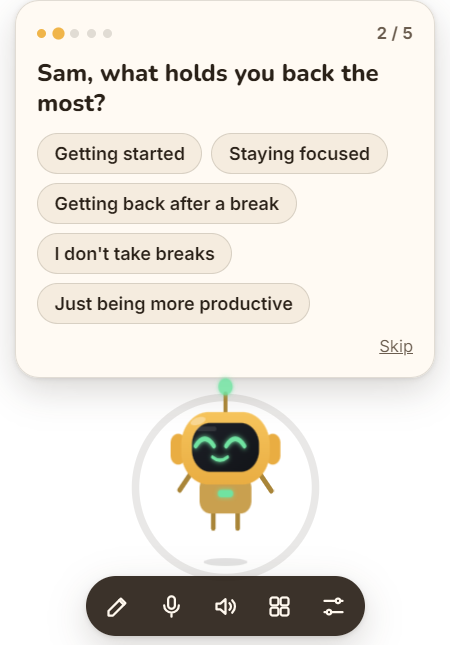
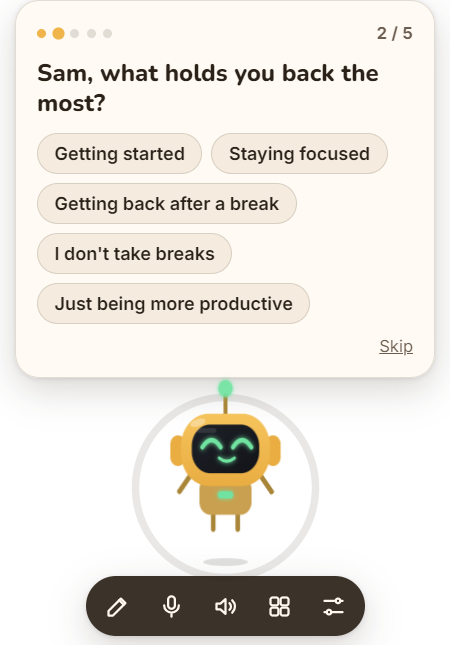
Cartes qui n'avalent plus les messages ; scenario de demo (docs/DEMO.md) joue automatiquement par npm run demo (11/11)

Changed region(s): [[0.3733, 0.6202, 0.6222, 0.8062], [0.4978, 0.5891, 0.5289, 0.6202], [0.4356, 0.7752, 0.4667, 0.8062]]

diff --git a/renderer.js b/renderer.js
@@ -91,7 +91,8 @@ async function handle(out) {
 
 async function ask(text) {
   if (!text.trim()) return;
-  if (pendingAnswer) { pendingAnswer(text.trim()); return; } // reponse parlee/ecrite a une question
+  if (pendingAnswer) { pendingAnswer(text.trim()); return; } // reponse parlee/ecrite a une question de l'onboarding
+  if (cardDismiss) cardDismiss(); // une autre carte (appli, pause…) laisse la place a la conversation
   if (mood === 'idle') setMood('focus');
   if (mood === 'idle') setMood('focus');
   setAct('thinking');
@@ -150,7 +151,7 @@ input.addEventListener('keydown', (e) => {
   if (e.key !== 'Enter') return;
   const t = input.value.trim(); input.value = ''; bar.classList.remove('typing');
   if (!t) return;
-  if (Realtime.open) { window.nox.remember('user', t); setAct('thinking'); Realtime.sendText(t); } else ask(t);
+  if (Realtime.open) { if (cardDismiss) cardDismiss(); window.nox.remember('user', t); setAct('thinking'); Realtime.sendText(t); } else ask(t);
 });
 
 // Evenement systeme : injecte dans la session vocale si elle est ouverte, sinon via le chat
@@ -195,7 +196,7 @@ Realtime.on = {
     rtAnalyser.fftSize = 512;
     actx.createMediaStreamSource(s).connect(rtAnalyser); // mesure seulement : l'element audio joue deja la voix
   },
-  listening() { lastVoiceAt = Date.now(); stopSpeaking(); if (mood === 'idle') setMood('focus'); setAct('listening'); },
+  listening() { if (cardDismiss) cardDismiss(); lastVoiceAt = Date.now(); stopSpeaking(); if (mood === 'idle') setMood('focus'); setAct('listening'); },
   thinking() { setAct('thinking'); },
   userText(t) { window.nox.remember('user', t); },
   caption(text) { say(text, currentStep); },
@@ -357,11 +358,13 @@ let lastMove = '';
 // ---------- Cartes de question (onboarding, permissions) ----------
 // Une question a la fois, grosses pastilles, toujours "Passer". Elle est aussi dite a voix haute,
 // et on peut repondre en parlant (clic sur la mascotte) ou en ecrivant.
-let card = null, pendingAnswer = null, methods = {}, currentMethod = null;
+let card = null, pendingAnswer = null, cardDismiss = null, methods = {}, currentMethod = null;
 // Une seule carte a la fois : les suivantes (mail, recompense) attendent leur tour
 let cardQueue = Promise.resolve();
 function showCardQueued(opts) { const p = cardQueue.then(() => showCard(opts)); cardQueue = p.catch(() => {}); return p; }
-function showCard({ text, options = [], input = false, secret = false, error = '', step = 0, total = 0, skip = T('card.skip') }) {
+// capture : la carte attend une reponse libre (onboarding). Sinon (appli, pause, mail, recompense),
+// elle s'efface des que l'utilisateur parle ou ecrit a Nox, et son message passe normalement.
+function showCard({ text, options = [], input = false, secret = false, error = '', step = 0, total = 0, skip = T('card.skip'), capture = false }) {
   return new Promise((resolve) => {
     card = true;
     clearTimeout(hideTimer);
@@ -376,7 +379,8 @@ function showCard({ text, options = [], input = false, secret = false, error = '
     }
     const q = document.createElement('p'); q.className = 'q'; q.textContent = text; bubble.append(q);
     if (error) { const er = document.createElement('p'); er.className = 'err'; er.textContent = error; bubble.append(er); }
-    const finish = (v) => { card = null; pendingAnswer = null; bubble.classList.remove('card'); resolve(v); };
+    const finish = (v) => { card = null; pendingAnswer = null; cardDismiss = null; bubble.classList.remove('card'); resolve(v); };
+    cardDismiss = capture ? null : () => finish(null);
     const pills = document.createElement('div'); pills.className = 'pills';
     for (const [value, label] of options) {
       const b = document.createElement('button'); b.className = 'pill'; b.textContent = label;
@@ -395,7 +399,7 @@ function showCard({ text, options = [], input = false, secret = false, error = '
     if (options.length) bubble.append(pills);
     if (skip) { const s = document.createElement('button'); s.className = 'skip'; s.textContent = skip; s.onclick = () => finish(null); bubble.append(s); }
     // Reponse parlee ou ecrite dans la barre : on la rapproche d'une pastille
-    pendingAnswer = (said) => {
+    if (capture) pendingAnswer = (said) => {
       const low = said.toLowerCase();
       const hit = options.find(([v, l]) => low.includes(String(l).toLowerCase().split(' ')[0]) || low.includes(String(v)));
       if (hit) finish(hit[0]); else if (input) finish(said.replace(/^(je m'appelle|moi c'est|c'est)\s*/i, '').replace(/[.!]$/, ''));
@@ -414,16 +418,16 @@ async function setLang(l) {
 async function runOnboarding(st) {
   setMood('happy');
   // 1) Langue : pre-reglee sur celle de Windows, l'utilisateur confirme ou change
-  const chosen = await showCard({ text: T('card.lang'), options: [['fr', 'Français'], ['en', 'English']], skip: null });
+  const chosen = await showCard({ text: T('card.lang'), options: [['fr', 'Français'], ['en', 'English']], skip: null, capture: true });
   await window.nox.setSettings({ lang: chosen });
   await setLang(chosen);
   const { onboarding } = await window.nox.getCatalog();
-  await showCard({ text: T('ob.hello', { name: st.name, n: onboarding.length }), options: [['go', T('ob.go')]], skip: null });
+  await showCard({ text: T('ob.hello', { name: st.name, n: onboarding.length }), options: [['go', T('ob.go')]], skip: null, capture: true });
   // 2) Cle OpenAI de l'utilisateur (chiffree sur son PC), ou mode demo sans cle
   if (!st.hasKey && !st.testMode && !st.demoMode) {
     let error = '';
     for (;;) {
-      const v = await showCard({ text: T('ob.key'), input: true, secret: true, error, options: [['demo', T('ob.demo')]], skip: null });
+      const v = await showCard({ text: T('ob.key'), input: true, secret: true, error, options: [['demo', T('ob.demo')]], skip: null, capture: true });
       if (v === 'demo' || v === null) { await window.nox.setDemo(true); break; }
       const r = await window.nox.setApiKey(v);
       if (r.ok) break;
@@ -436,7 +440,7 @@ async function runOnboarding(st) {
     const q = onboarding[i];
     const text = q.key === 'blocker' && answers.name ? T('ob.blockerNamed', { name: answers.name }) : q.ask;
     flash('jump', 450);
-    const v = await showCard({ text, options: q.options || [], input: q.input, step: i + 1, total: onboarding.length });
+    const v = await showCard({ text, options: q.options || [], input: q.input, step: i + 1, total: onboarding.length, capture: true });
     if (v !== null) answers[q.key] = v;
   }
   await window.nox.saveProfile(answers);

diff --git a/tools/demo-run.js b/tools/demo-run.js
@@ -1,0 +1,86 @@
+// Joue le scenario de docs/DEMO.md tout seul, en anglais, avec le cerveau de demo (sans cle,
+// sans ouvrir Word ni YouTube), et verifie chacun des 7 moments (preuve que le parcours marche).
+// Usage : node tools/demo-run.js
+const { _electron: electron } = require('playwright-core');
+const fs = require('fs');
+const os = require('os');
+const path = require('path');
+
+const ROOT = path.join(__dirname, '..');
+
+const steps = [];
+function step(name, ok) { steps.push({ name, ok }); console.log(`${ok ? 'OK ' : 'RATE'}  ${name}`); }
+const pause = (ms) => new Promise((r) => setTimeout(r, ms));
+
+(async () => {
+
+  const data = fs.mkdtempSync(path.join(os.tmpdir(), 'nox-demo-run-'));
+  fs.writeFileSync(path.join(data, 'nox-state.json'), JSON.stringify({
+    lang: 'en', method: 'pomodoro', watchWindows: true, watchAsked: true,
+    profile: { name: 'Adebayo', blocker: 'start', energy: 'morning', focusMin: 15, tone: 'douce', onboardedAt: Date.now() }
+  }));
+  const app = await electron.launch({
+    args: ['--force-device-scale-factor=2', '.'], cwd: ROOT,
+    env: { ...process.env, NOX_FAKE_AI: '1', NOX_USER_DATA: data, NOX_NO_WATCHER: '1', REALTIME: 'off', DRIFT_SECONDS: '4', IDLE_SECONDS: '100000' }
+  });
+  const nox = await app.firstWindow();
+  const bubble = () => nox.locator('#bubble').innerText();
+  const waitBubble = (re, ms = 8000) => nox.waitForFunction((src) => new RegExp(src, 'i').test(document.getElementById('bubble').innerText), re.source, { timeout: ms }).then(() => true, () => false);
+  const tell = async (text) => { await nox.click('#write'); await pause(300); await nox.type('#input', text, { delay: 35 }); await pause(300); await nox.press('#input', 'Enter'); };
+
+  // 1. Lancement : atterrissage + salutation
+  step('1. Nox greets you by name', await waitBubble(/Hi Adebayo/, 10000));
+  await pause(1500);
+
+  // 2. Annoncer la tache : micro-etapes, minuteur, proposition de Word
+  await tell('I need to write my internship report');
+  step('2. Task broken down, first step shown', await waitBubble(/Open the document/));
+  step('2. Word is suggested', await nox.waitForSelector('#bubble.card >> text=This happens in Word', { timeout: 6000 }).then(() => true, () => false));
+  await pause(1500);
+  await nox.click('#bubble .pill:has-text("No need")'); // (en direct : "Open it")
+
+  // 3. Minuteur de 25 min a la voix
+  await tell('Start a 25 minute timer');
+  step('3. 25-minute timer running', await nox.waitForFunction(() => document.getElementById('timerLabel').innerText.startsWith('2'), null, { timeout: 5000 }).then(() => true, () => false));
+  await pause(1500);
+
+  // 4. Decrochage sur YouTube (titre de fenetre simule)
+  await nox.evaluate(() => window.nox.testWindow('Funny cats compilation - YouTube - Google Chrome'));
+  step('4. Nox brings you back from YouTube', await waitBubble(/YouTube can wait/, 15000));
+  await nox.evaluate(() => window.nox.testWindow('Internship report - Word'));
+  await pause(2000);
+
+  // 5. Etape faite : felicitations, etape suivante, competence debloquee
+  await tell('Done!');
+  step('5. Next step after "Done"', await waitBubble(/Nice/));
+  step('5. Skill unlocked', await nox.waitForSelector('#bubble.card >> text=Skill unlocked', { timeout: 9000 }).then(() => true, () => false));
+  await pause(2000);
+  await nox.click('#bubble .pill:has-text("Awesome")');
+
+  // 6. Note express puis compliment
+  await tell('Note that I need to email my tutor');
+  step('6. Note saved', await waitBubble(/noted/));
+  await pause(1200);
+  await tell("You're so cute");
+  step('6. Nox blushes', await nox.waitForFunction(() => document.getElementById('app').classList.contains('shy'), null, { timeout: 5000 }).then(() => true, () => false));
+  await pause(2500);
+
+  // 7. Tableau de bord, puis arreter le minuteur a la voix
+  const [dash] = await Promise.all([app.waitForEvent('window'), nox.click('#dashboard')]);
+  await dash.waitForSelector('#stepNow');
+  step('7. Dashboard shows the step, the note and the progress',
+    (await dash.locator('#notes').innerText()).includes('email my tutor') && (await dash.locator('#lvGrade').innerText()).length > 0);
+  await pause(2500);
+  await dash.evaluate(() => document.getElementById('notes').scrollIntoView({ behavior: 'smooth' }));
+  await pause(2000);
+  await tell('Stop the timer');
+  step('7. Timer stopped by voice', await nox.waitForFunction(() => document.getElementById('timerLabel').style.display === 'none', null, { timeout: 5000 }).then(() => true, () => false));
+  await pause(1500);
+  void bubble;
+
+  await app.close();
+  fs.rmSync(data, { recursive: true, force: true });
+  const failed = steps.filter((s) => !s.ok).length;
+  console.log(`\n${steps.length - failed}/${steps.length} moments reussis.`);
+  process.exit(failed ? 1 : 0);
+})().catch((e) => { console.error('ECHEC', e.message.split('\n')[0]); process.exit(1); });

diff --git a/main.js b/main.js
@@ -244,7 +244,7 @@ Facon de parler :
 - Ton humeur (mood) colore ta voix et tes mots : shy = timide, un peu gene ; love = touche, tres chaleureux ; happy = enjoue ; worried = doux, rassurant ; proud = fier de lui ; tired = calme, lent, compatissant ; focus = clair et pose. Une emotion est passagere : des que la conversation passe a autre chose, reviens a focus ou happy.
 - Emotions a montrer : compliment ("t'es mignon", "cute") -> shy, remercie timidement ; affection ou gros merci -> love ; il est fatigue -> tired, compatis et propose une pause ; une blague -> happy.
 - Fermete : ${state.firmness}. Mode : ${state.mode}.
-Ce que tu sais faire (dis-le precisement si on te le demande, sans inventer) :
+Ce que tu sais faire (si on te le demande : resume en 2 phrases max, les 3 ou 4 choses les plus utiles pour lui, sans inventer) :
 - decouper une tache en micro-etapes de 2 a 10 min et suivre l'avancement ;
 - lancer, arreter ou relancer le minuteur (duree par defaut : ${memory.timerMinutes(state)} min) ;
 - ouvrir une appli (word, excel, powerpoint, vscode, notepad, explorateur) ou un site qu'il cite ;
@@ -592,7 +592,7 @@ async function telegramLoop() {
 // ---------- Surveillance douce (avec permission) ----------
 // Le processus ne tourne que si l'utilisateur a donne son accord
 function syncWindowWatcher() {
-  if (state.watchWindows && !watcher) startWindowWatcher();
+  if (state.watchWindows && !watcher && !process.env.NOX_NO_WATCHER) startWindowWatcher();
   if (!state.watchWindows && watcher) { watcher.kill(); watcher = null; currentTitle = ''; }
 }
 
@@ -784,6 +784,8 @@ ipcMain.handle('nox:newTask', async (_e, text) => {
 ipcMain.on('nox:startTimer', (_e, min) => send('nox:startTimer', Number(min) || memory.timerMinutes(state)));
 ipcMain.on('nox:openDashboard', () => openDashboard());
 ipcMain.on('nox:hide', () => toggleNox(false));
+// Mode test uniquement : simuler le titre de la fenetre active (demo automatique du decrochage)
+if (FAKE_AI) ipcMain.on('nox:test:window', (_e, title) => { currentTitle = String(title || ''); });
 ipcMain.handle('nox:openApp', (_e, id) => apps.openApp(id, shell));
 ipcMain.on('nox:show', () => toggleNox(true));
 // Salutation au lancement : Nox parle en premier

diff --git a/fake-ai.js b/fake-ai.js
@@ -25,6 +25,7 @@ const R = {
     window: (w) => `Tu es sur « ${w} ». C'est bien là que tu voulais être ?`,
     can: "Je découpe tes tâches en petites étapes, je lance ou j'arrête un minuteur, j'ouvre la bonne appli, je prends tes notes et je te ramène quand tu décroches. Je ne lis pas encore le contenu de tes pages.",
     timerStopped: 'Minuteur arrêté. On reprend quand tu veux.',
+    drift: 'Hé, YouTube peut attendre ta pause 😉 On revient sur ton étape ?',
     timerStarted: (m) => `C'est parti pour ${m} minutes ⏱`,
     chat: ["Je t'écoute 🙂 Tu bosses sur quoi en ce moment ?", "Ah, raconte ! Et côté travail, ça avance ?", "Je suis là. Si tu as une tâche qui traîne, dis-la moi, on la découpe ensemble."]
   },
@@ -52,6 +53,7 @@ const R = {
     window: (w) => `You're on "${w}". Is that where you meant to be?`,
     can: "I break your tasks into tiny steps, start or stop a timer, open the right app, take your notes and bring you back when you drift. I can't read the content of your pages yet.",
     timerStopped: 'Timer stopped. We can pick up whenever you like.',
+    drift: "Hey, YouTube can wait for your break 😉 Shall we get back to your step?",
     timerStarted: (m) => `${m} minutes, here we go ⏱`,
     chat: ["I'm listening 🙂 What are you working on right now?", 'Oh, tell me more! And how is work going?', "I'm here. Got a task that keeps slipping? Tell me and we'll break it down together."]
   }
@@ -70,6 +72,7 @@ function fakeThink(state, text, ctx = {}) {
     if (t.includes('minuteur')) return { reply: r.timer, mood: 'proud' };
     if (t.includes('revient')) return { reply: r.back(name, step), mood: 'happy' };
     if (t.includes('nouvelles')) return { reply: r.checkIn, mood: 'focus' };
+    if (t.includes('ramene-le')) return { reply: r.drift, mood: 'worried' };
     if (t.includes('agenda')) { const ev = text.match(/"([^"]+)"/); return { reply: r.agenda(ev && ev[1]), mood: 'worried' }; }
     if (t.includes('derniere etape')) return { reply: r.taskDone, mood: 'proud' };
     if (t.includes('coche une etape')) return { reply: r.stepDone(step), mood: 'proud' };

diff --git a/memory.js b/memory.js
@@ -9,7 +9,7 @@ const METHODS = {
     prompt: "Methode regle des 5 minutes : propose toujours un minuteur de 5 min ; a la fin, demande s'il veut continuer, sans pression." },
   pomodoro: { name: 'Pomodoro', emoji: '🍅', focusMin: 25, breakMin: 5, checkInMin: 0,
     short: '25 min de focus, 5 min de pause. On répète.',
-    prompt: 'Methode Pomodoro : minuteur de focus a la duree preferee, puis propose une vraie pause de 5 min.' },
+    prompt: 'Methode Pomodoro : seances de 25 min de focus, puis une vraie pause de 5 min.' },
   body_doubling: { name: 'Body doubling', emoji: '👥', focusMin: 25, breakMin: 5, checkInMin: 10,
     short: 'Je reste avec toi et je prends des nouvelles.',
     prompt: 'Methode body doubling : tu travailles "a cote" de lui ; prends des nouvelles regulierement, tres brievement, sans juger.' },
@@ -182,7 +182,7 @@ function summary(state) {
   if (p.name) lines.push(`Prenom : ${p.name}.`);
   if (p.blocker) lines.push(`Il ${LABELS.blocker[p.blocker] || p.blocker}.`);
   if (p.energy) lines.push(`Energie : ${LABELS.energy[p.energy] || p.energy}.`);
-  if (p.focusMin) lines.push(`Concentration confortable : ${p.focusMin} min (duree par defaut du minuteur).`);
+  if (p.focusMin) lines.push(`Concentration confortable : ${p.focusMin} min.`);
   if (m) lines.push(`Methode choisie : ${m.name}. ${m.prompt}`);
   if (state.facts.length) lines.push(`Ce que tu sais de lui : ${state.facts.slice(-12).map((f) => f.text).join(' ; ')}.`);
   if (state.notes.length) lines.push(`Ses notes (les plus recentes, a relire s'il le demande) : ${state.notes.slice(-8).map((n) => `"${n.text}"`).join(' ; ')}.`);

diff --git a/preload.js b/preload.js
@@ -20,6 +20,7 @@ contextBridge.exposeInMainWorld('nox', {
   startTimer: (min) => ipcRenderer.send('nox:startTimer', min),
   openDashboard: () => ipcRenderer.send('nox:openDashboard'),
   hide: () => ipcRenderer.send('nox:hide'),
+  testWindow: (title) => ipcRenderer.send('nox:test:window', title), // sans effet hors mode test
   openApp: (id) => ipcRenderer.invoke('nox:openApp', id),
   onSuggestApp: (cb) => ipcRenderer.on('nox:suggestApp', (_e, a) => cb(a)),
   show: () => ipcRenderer.send('nox:show'),

diff --git a/docs/DEMO.md b/docs/DEMO.md
@@ -1,0 +1,28 @@
+# Scénario de démo — 90 secondes, 7 moments
+
+Un seul scénario, toujours le même, pour montrer que Nox fait exactement ce qu'on attend de lui.
+Les phrases à dire sont en anglais (vidéo pour le jury) ; la version française est entre parenthèses.
+
+**Avant de commencer**
+- Nox installé, clé OpenAI enregistrée (ou mode démo), langue **English**, méthode **Pomodoro**.
+- Réglages → « See the active app / tab » **coché** (pour le moment 4).
+- Word installé (sinon Nox ouvrira Word en ligne : c'est prévu).
+- Écran propre : seulement le bureau, Chrome fermé.
+
+| # | Tu fais / tu dis | Nox doit… | Ce qu'on voit |
+|---|---|---|---|
+| 1 | Tu lances Nox | atterrir en bas à droite et te saluer par ton prénom | animation d'atterrissage, bulle « Hi Adebayo! What are you working on? » |
+| 2 | *« I need to write my internship report »* (« Je dois rédiger mon rapport de stage ») | découper en micro-étapes, n'afficher que la première, proposer le minuteur, puis proposer Word | bulle avec « → première étape », carte « This happens in Word. Want me to open it? » |
+| 3 | Clic **Open it** (« Ouvre-le »), puis *« Start a 25-minute timer »* | ouvrir Word, lancer l'anneau de 25 min | Word s'ouvre, anneau jaune autour de Nox |
+| 4 | Tu ouvres YouTube dans Chrome et tu restes 20 s | te ramener gentiment | Nox inquiet, « Let's keep that for your break » |
+| 5 | Retour sur Word : *« Done! »* (« C'est fait ! ») | féliciter, donner l'étape suivante, faire monter l'XP | Nox fier, étape suivante, carte « Skill unlocked 🎉 » |
+| 6 | *« Note that I need to email my tutor »* puis *« You're so cute »* | enregistrer la note ; rougir | « Got it, noted 📝 » ; joues roses, « You're making me blush » |
+| 7 | Bouton ▦ (tableau de bord), puis *« Stop the timer »* | montrer l'étape en cours, la note, la progression ; arrêter le minuteur | tableau de bord complet ; l'anneau disparaît |
+
+**À ne pas montrer** (pas encore prêt ou trop long) : lecture du contenu d'une page, Telegram, Gmail en direct.
+
+**Si quelque chose rate en direct** : clic sur la mascotte pour couper le micro, *« Let's start over »*, et reprendre au moment qui a raté.
+
+## Version automatique
+
+`node tools/demo-run.js` joue ce scénario tout seul, en anglais (cerveau de démo, sans clé, sans ouvrir Word ni YouTube : la fenêtre YouTube est simulée) et vérifie chacun des 7 moments. Résultat attendu : « 11/11 moments réussis ».
